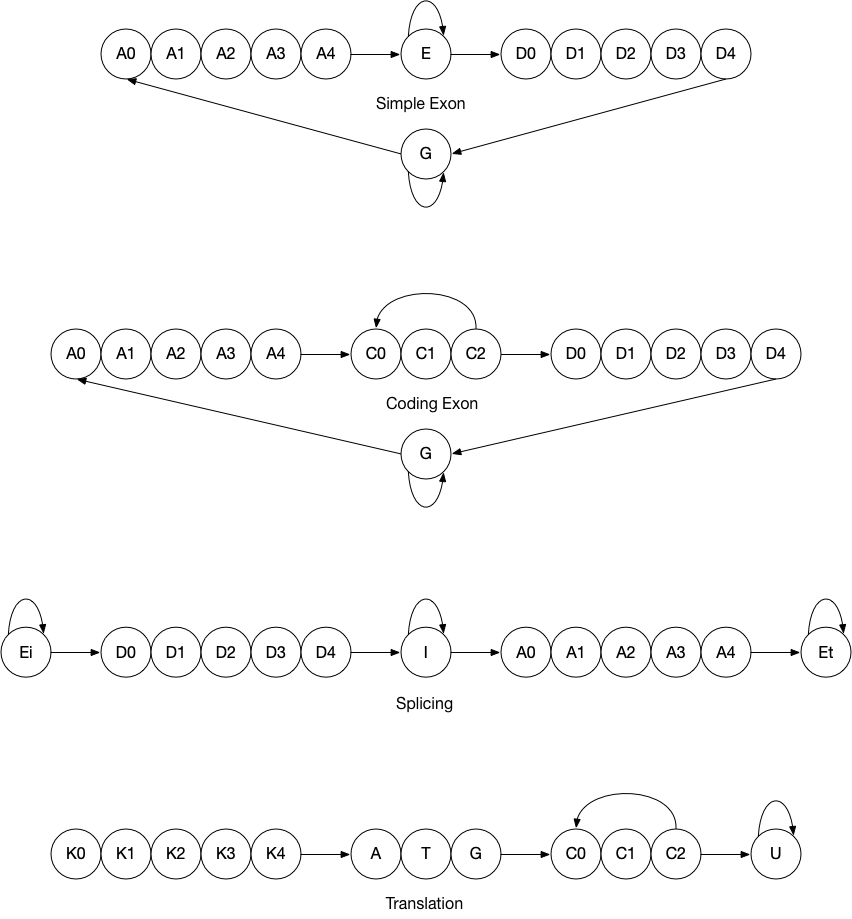
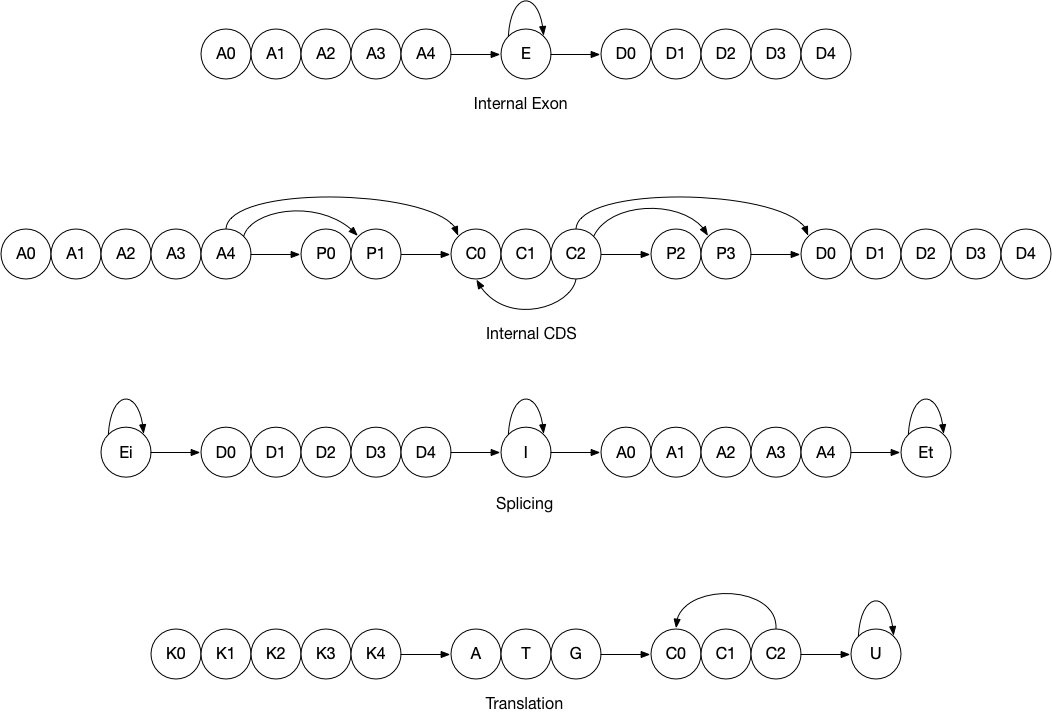
fixes and internal_exon model

diff --git a/forge.py b/forge.py
@@ -6,6 +6,7 @@ import json
 
 import toolbox
 import hmm
+import genome
 from hmm import HMM
 
 ## Command line stuff ##
@@ -19,15 +20,19 @@ parser.add_argument('--out', required=True, type=str,
 	metavar='<path>', help='path to output file (%(type)s)')
 parser.add_argument('--model', required=True, type=str,
 	metavar='<model>', help='exon|cds')
-parser.add_argument('--acc', required=False, type=int, default=0,
+parser.add_argument('--acc_len', required=False, type=int, default=5,
+	metavar='<int>', help='acceptor length [%(default)d]')
+parser.add_argument('--acc_ctx', required=False, type=int, default=0,
 	metavar='<int>', help='acceptor context [%(default)d]')
-parser.add_argument('--don', required=False, type=int, default=0,
+parser.add_argument('--don_len', required=False, type=int, default=5,
+	metavar='<int>', help='donor length [%(default)d]')
+parser.add_argument('--don_ctx', required=False, type=int, default=0,
 	metavar='<int>', help='donor context [%(default)d]')
-parser.add_argument('--exon', required=False, type=int, default=0,
+parser.add_argument('--exon_ctx', required=False, type=int, default=0,
 	metavar='<int>', help='exon context [%(default)d]')
-parser.add_argument('--gen', required=False, type=int, default=0,
+parser.add_argument('--gen_ctx', required=False, type=int, default=0,
 	metavar='<int>', help='genomic context [%(default)d]')
-parser.add_argument('--int', required=False, type=int, default=0,
+parser.add_argument('--int_ctx', required=False, type=int, default=0,
 	metavar='<int>', help='intron context [%(default)d]')
 parser.add_argument('--test', action='store_true')
 arg = parser.parse_args()
@@ -89,8 +94,46 @@ if arg.model == 'exon':
 		states=[int_state] + acc_states + [exon_state] + don_states)
 	model.write(arg.out)
 	
-elif arg.model == 'cds':
-	pass
+elif arg.model == 'internal_exon':
+	# skippng
+	#	genes with issues
+	#	genes with multiple transcripts
+	#	genes with fewer than 3 exons
+	gen = genome.Genome(gff=arg.gff, fasta=arg.fasta)
+	acc_seqs = []
+	don_seqs = []
+	exon_seqs = []
+	for chr in gen.chromosomes:
+		for gene in chr.genes:
+			tx = gene.transcripts[0]
+			if gene.issues: continue
+			if len(gene.transcripts) > 1: continue
+			if len(tx.exons) < 3: continue
+			for i in range(1, len(tx.exons) -1):
+				exon_seqs.append(tx.exons[i].seq())
+			for intron in tx.introns:
+				iseq = intron.seq()
+				acc_seqs.append(iseq[-arg.acc_len:len(iseq)])
+				don_seqs.append(iseq[0:arg.don_len])
+	
+	acc_emits = hmm.state.train_emissions(acc_seqs, context=arg.acc_ctx)
+	don_emits = hmm.state.train_emissions(don_seqs, context=arg.don_ctx)
+	exon_emits = hmm.state.train_emission(exon_seqs, context=arg.exon_ctx)
+	
+	acc_states = hmm.state.state_factory('ACC', acc_emits)
+	don_states = hmm.state.state_factory('DON', don_emits)
+	exon_state = hmm.state.State(name='EXON', context=arg.exon_ctx, emits=exon_emits)
+	acc_states[0].init = 1
+	don_states[arg.don_len-1].term = 1
+
+	hmm.connect_all(acc_states)
+	hmm.connect2(acc_states[-1], exon_state, 1)
+	hmm.connect2(exon_state, exon_state, 0.99)
+	hmm.connect2(exon_state, don_states[0], 0.01)
+	hmm.connect_all(don_states)
+	
+	model = HMM(name=arg.out, states=acc_states + [exon_state] + don_states)
+	model.write(arg.out)
 
 elif arg.model == 'prok':
 	pass

diff --git a/genome.py b/genome.py
@@ -90,7 +90,7 @@ class mRNA:
 		min_intron = 30
 		max_intron = 10000
 		dons = {'GT':True}
-		accs = {'AC':True}
+		accs = {'AG':True}
 		starts = {'ATG':True}
 		stops = {'TAA':True, 'TGA':True, 'TAG':True}
 		if rules == 'std':
@@ -116,7 +116,7 @@ class mRNA:
 		cds = self.cds()
 		pro = toolbox.dna.translate(cds)
 		start = cds[0:3]
-		stop = cds[-2:len(cds)]
+		stop = cds[-3:len(cds)]
 		if start not in starts: self.issues.append('start:' + start)
 		if stop not in stops: self.issues.append('stop:' + stop)
 		for i in range(len(pro) - 1):
